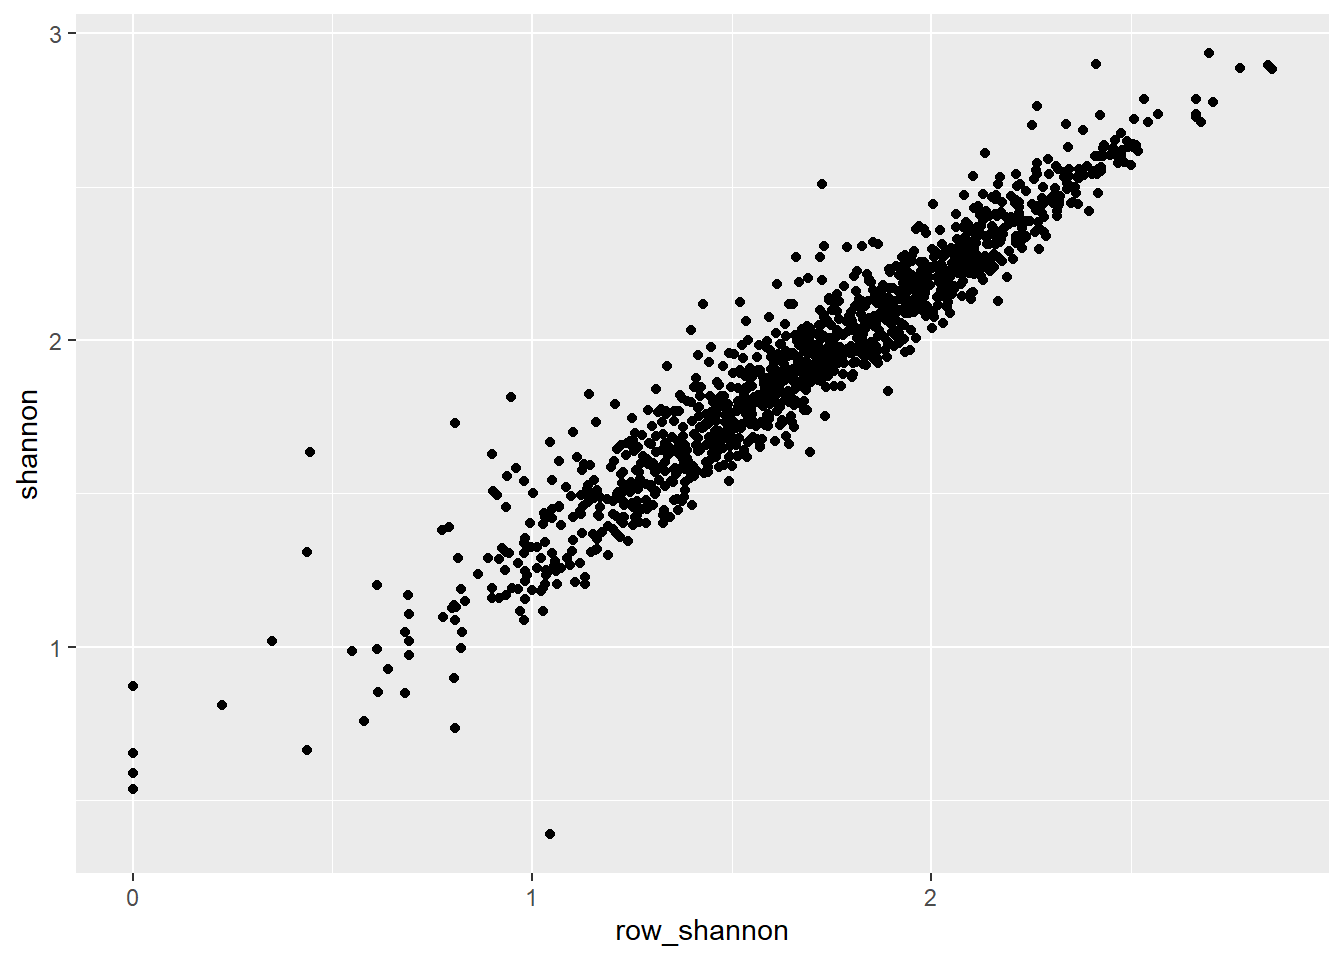
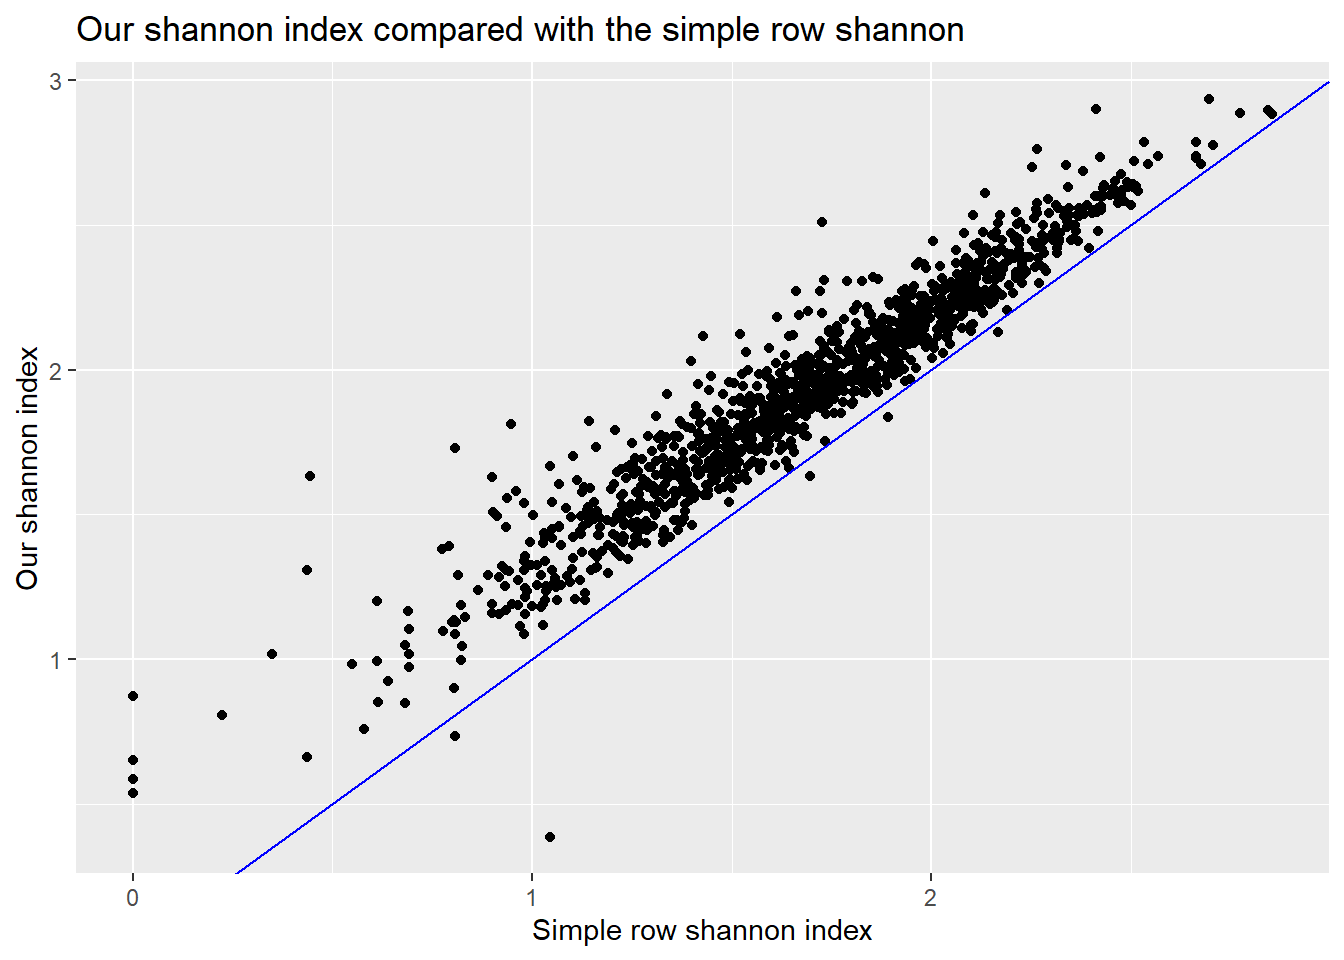
wflow_publish(all = TRUE)

diff --git a/docs/index.html b/docs/index.html
@@ -377,6 +377,9 @@ div.tocify {
 <li>
   <a href="license.html">License</a>
 </li>
+<li>
+  <a href="function_simple_shannon.html">Functions</a>
+</li>
       </ul>
       <ul class="nav navbar-nav navbar-right">
         <li>
@@ -402,7 +405,7 @@ div.tocify {
 
 <p>
 <button type="button" class="btn btn-default btn-workflowr btn-workflowr-report" data-toggle="collapse" data-target="#workflowr-report">
-<span class="glyphicon glyphicon-list" aria-hidden="true"></span> workflowr <span class="glyphicon glyphicon-ok text-success" aria-hidden="true"></span>
+<span class="glyphicon glyphicon-list" aria-hidden="true"></span> workflowr <span class="glyphicon glyphicon-exclamation-sign text-danger" aria-hidden="true"></span>
 </button>
 </p>
 <div id="workflowr-report" class="collapse">
@@ -411,7 +414,7 @@ div.tocify {
 <a data-toggle="tab" href="#summary">Summary</a>
 </li>
 <li>
-<a data-toggle="tab" href="#checks"> Checks <span class="glyphicon glyphicon-ok text-success" aria-hidden="true"></span> </a>
+<a data-toggle="tab" href="#checks"> Checks <span class="glyphicon glyphicon-exclamation-sign text-danger" aria-hidden="true"></span> </a>
 </li>
 <li>
 <a data-toggle="tab" href="#versions">Past versions</a>
@@ -420,10 +423,10 @@ div.tocify {
 <div class="tab-content">
 <div id="summary" class="tab-pane fade in active">
 <p>
-<strong>Last updated:</strong> 2021-04-05
+<strong>Last updated:</strong> 2021-04-06
 </p>
 <p>
-<strong>Checks:</strong> <span class="glyphicon glyphicon-ok text-success" aria-hidden="true"></span> 7 <span class="glyphicon glyphicon-exclamation-sign text-danger" aria-hidden="true"></span> 0
+<strong>Checks:</strong> <span class="glyphicon glyphicon-ok text-success" aria-hidden="true"></span> 6 <span class="glyphicon glyphicon-exclamation-sign text-danger" aria-hidden="true"></span> 1
 </p>
 <p>
 <strong>Knit directory:</strong> <code>DataProject-index/</code> <span class="glyphicon glyphicon-question-sign" aria-hidden="true" title="This is the local directory in which the code in this file was executed."> </span>
@@ -439,12 +442,12 @@ This reproducible <a href="http://rmarkdown.rstudio.com">R Markdown</a> analysis
 <div class="panel panel-default">
 <div class="panel-heading">
 <p class="panel-title">
-<a data-toggle="collapse" data-parent="#workflowr-checks" href="#strongRMarkdownfilestronguptodate"> <span class="glyphicon glyphicon-ok text-success" aria-hidden="true"></span> <strong>R Markdown file:</strong> up-to-date </a>
+<a data-toggle="collapse" data-parent="#workflowr-checks" href="#strongRMarkdownfilestronguncommittedchanges"> <span class="glyphicon glyphicon-exclamation-sign text-danger" aria-hidden="true"></span> <strong>R Markdown file:</strong> uncommitted changes </a>
 </p>
 </div>
-<div id="strongRMarkdownfilestronguptodate" class="panel-collapse collapse">
+<div id="strongRMarkdownfilestronguncommittedchanges" class="panel-collapse collapse">
 <div class="panel-body">
-<p>Great! Since the R Markdown file has been committed to the Git repository, you know the exact version of the code that produced these results.</p>
+<p>The R Markdown file has unstaged changes. To know which version of the R Markdown file created these results, you’ll want to first commit it to the Git repo. If you’re still working on the analysis, you can ignore this warning. When you’re finished, you can run <code>wflow_publish</code> to commit the R Markdown file and build the HTML.</p>
 </div>
 </div>
 </div>
@@ -511,16 +514,16 @@ This reproducible <a href="http://rmarkdown.rstudio.com">R Markdown</a> analysis
 <div class="panel panel-default">
 <div class="panel-heading">
 <p class="panel-title">
-<a data-toggle="collapse" data-parent="#workflowr-checks" href="#strongRepositoryversionstrongahrefhttpsgithubcomMHPHPDataProject1tree16289e5b73373f187c22020ecdf19fe0443b3a31targetblank16289e5a"> <span class="glyphicon glyphicon-ok text-success" aria-hidden="true"></span> <strong>Repository version:</strong> <a href="https://github.com/MHPHP/DataProject-1/tree/16289e5b73373f187c22020ecdf19fe0443b3a31" target="_blank">16289e5</a> </a>
+<a data-toggle="collapse" data-parent="#workflowr-checks" href="#strongRepositoryversionstrongahrefhttpsgithubcomMHPHPDataProject1tree64faa3fd831f69031147162fc5bdb56c9bc06f53targetblank64faa3fa"> <span class="glyphicon glyphicon-ok text-success" aria-hidden="true"></span> <strong>Repository version:</strong> <a href="https://github.com/MHPHP/DataProject-1/tree/64faa3fd831f69031147162fc5bdb56c9bc06f53" target="_blank">64faa3f</a> </a>
 </p>
 </div>
[2 lines of base64/hex data omitted]
 <div class="panel-body">
 <p>
 Great! You are using Git for version control. Tracking code development and connecting the code version to the results is critical for reproducibility.
 </p>
 <p>
-The results in this page were generated with repository version <a href="https://github.com/MHPHP/DataProject-1/tree/16289e5b73373f187c22020ecdf19fe0443b3a31" target="_blank">16289e5</a>. See the <em>Past versions</em> tab to see a history of the changes made to the R Markdown and HTML files.
+The results in this page were generated with repository version <a href="https://github.com/MHPHP/DataProject-1/tree/64faa3fd831f69031147162fc5bdb56c9bc06f53" target="_blank">64faa3f</a>. See the <em>Past versions</em> tab to see a history of the changes made to the R Markdown and HTML files.
 </p>
 <p>
 Note that you need to be careful to ensure that all relevant files for the analysis have been committed to Git prior to generating the results (you can use <code>wflow_publish</code> or <code>wflow_git_commit</code>). workflowr only checks the R Markdown file, but you know if there are other scripts or data files that it depends on. Below is the status of the Git repository when the results were generated:
@@ -531,8 +534,8 @@ Ignored files:
     Ignored:    .Rproj.user/
 
 Unstaged changes:
-    Modified:   analysis/function_simple_shannon.Rmd
-    Modified:   analysis/gradient_plot.Rmd
+    Modified:   analysis/index.Rmd
+    Modified:   code/function_shannon.R
 
 </code></pre>
 <p>
@@ -571,6 +574,23 @@ Message
 </tr>
 </thead>
 <tbody>
+<tr>
+<td>
+html
+</td>
+<td>
+<a href="https://rawcdn.githack.com/MHPHP/DataProject-1/032f6e01c12d3f51460a271bf4f73b4aa5818117/docs/index.html" target="_blank">032f6e0</a>
+</td>
+<td>
+MHPHP
+</td>
+<td>
+2021-04-06
+</td>
+<td>
+wflow_publish(all = TRUE)
+</td>
+</tr>
 <tr>
 <td>
 html
@@ -18882,7 +18902,7 @@ shannon
 <h1>
 Plot
 </h1>
-<p>Look at connection between pH value of the soil and the shannon index for the plot. The function <a href="gradient_plot.html">plot_index_gradient</a> is used to visualize how different ways of calculating the shannon index compares against each other. We will be comparing different shannon indexes as well as the hills number by plotting them against a gradient for each plot. In this example the gradient will be the pH value of the soil. We used the functions row_shannon and species_richness. Their documnetation is <a href="function_simple_shannon.html">Here</a>.</p>
+<p>Look at connection between pH value of the soil and the shannon index for the plot. The function <a href="gradient_plot.html">plot_index_gradient</a> is used to visualize how different ways of calculating the shannon index compares against each other. We will be comparing different shannon indexes as well as the hills number by plotting them against a gradient for each plot. In this example the gradient will be the pH value of the soil. We used the functions row_shannon and species_richness. Their documentation is <a href="function_simple_shannon.html">Here</a>.</p>
 <pre class="r"><code>result$pH &lt;- abiotiske$pHjord
 result$row_shannon &lt;- row_shannon(cover_data = cover, species_indicator = &quot;X&quot;)
 result$species_richness &lt;- species_richness(freq, species_indicator = &quot;X&quot;)
@@ -18899,6 +18919,7 @@ result$hills_number &lt;- exp(result$row_shannon)</code></pre>
 <p><img src="figure/index.Rmd/unnamed-chunk-12-1.png" width="672" style="display: block; margin: auto;" /></p>
 <p>An other way of comparing two indexes is to plot them against each other.</p>
 <p><img src="figure/index.Rmd/unnamed-chunk-13-1.png" width="672" style="display: block; margin: auto;" /></p>
+<p>It can be seen in this example, that our way of calculating the shannon index gives a slightly higher value for most plots, but two plots with similar shannon index value with the simple way will still have compareple values with our way. Noticeably are the biggest difference among plots with a shannon value of 0 using the simpler method, that now have a value closer to 1 with our way of calculatin the shannon index.</p>
 <br>
 <p>
 <button type="button" class="btn btn-default btn-workflowr btn-workflowr-sessioninfo" data-toggle="collapse" data-target="#workflowr-sessioninfo" style="display: block;">

diff --git a/docs/Animation.html b/docs/Animation.html
@@ -11,7 +11,7 @@
 
 
 
-<title>Animation for model validation</title>
+<title>Animation.utf8.md</title>
 
 <script src="site_libs/jquery-1.11.3/jquery.min.js"></script>
 <meta name="viewport" content="width=device-width, initial-scale=1" />
@@ -396,14 +396,13 @@ div.tocify {
 
 
 
-<h1 class="title toc-ignore">Animation for model validation</h1>
 
 </div>
 
 
 <p>
 <button type="button" class="btn btn-default btn-workflowr btn-workflowr-report" data-toggle="collapse" data-target="#workflowr-report">
-<span class="glyphicon glyphicon-list" aria-hidden="true"></span> workflowr <span class="glyphicon glyphicon-ok text-success" aria-hidden="true"></span>
+<span class="glyphicon glyphicon-list" aria-hidden="true"></span> workflowr <span class="glyphicon glyphicon-exclamation-sign text-danger" aria-hidden="true"></span>
 </button>
 </p>
 <div id="workflowr-report" class="collapse">
@@ -412,7 +411,7 @@ div.tocify {
 <a data-toggle="tab" href="#summary">Summary</a>
 </li>
 <li>
-<a data-toggle="tab" href="#checks"> Checks <span class="glyphicon glyphicon-ok text-success" aria-hidden="true"></span> </a>
+<a data-toggle="tab" href="#checks"> Checks <span class="glyphicon glyphicon-exclamation-sign text-danger" aria-hidden="true"></span> </a>
 </li>
 <li>
 <a data-toggle="tab" href="#versions">Past versions</a>
@@ -424,7 +423,7 @@ div.tocify {
 <strong>Last updated:</strong> 2021-04-07
 </p>
 <p>
-<strong>Checks:</strong> <span class="glyphicon glyphicon-ok text-success" aria-hidden="true"></span> 7 <span class="glyphicon glyphicon-exclamation-sign text-danger" aria-hidden="true"></span> 0
+<strong>Checks:</strong> <span class="glyphicon glyphicon-ok text-success" aria-hidden="true"></span> 6 <span class="glyphicon glyphicon-exclamation-sign text-danger" aria-hidden="true"></span> 1
 </p>
 <p>
 <strong>Knit directory:</strong> <code>DataProject-index/</code> <span class="glyphicon glyphicon-question-sign" aria-hidden="true" title="This is the local directory in which the code in this file was executed."> </span>
@@ -440,12 +439,12 @@ This reproducible <a href="http://rmarkdown.rstudio.com">R Markdown</a> analysis
 <div class="panel panel-default">
 <div class="panel-heading">
 <p class="panel-title">
-<a data-toggle="collapse" data-parent="#workflowr-checks" href="#strongRMarkdownfilestronguptodate"> <span class="glyphicon glyphicon-ok text-success" aria-hidden="true"></span> <strong>R Markdown file:</strong> up-to-date </a>
+<a data-toggle="collapse" data-parent="#workflowr-checks" href="#strongRMarkdownfilestronguncommittedchanges"> <span class="glyphicon glyphicon-exclamation-sign text-danger" aria-hidden="true"></span> <strong>R Markdown file:</strong> uncommitted changes </a>
 </p>
 </div>
-<div id="strongRMarkdownfilestronguptodate" class="panel-collapse collapse">
+<div id="strongRMarkdownfilestronguncommittedchanges" class="panel-collapse collapse">
 <div class="panel-body">
-<p>Great! Since the R Markdown file has been committed to the Git repository, you know the exact version of the code that produced these results.</p>
+<p>The R Markdown file has unstaged changes. To know which version of the R Markdown file created these results, you’ll want to first commit it to the Git repo. If you’re still working on the analysis, you can ignore this warning. When you’re finished, you can run <code>wflow_publish</code> to commit the R Markdown file and build the HTML.</p>
 </div>
 </div>
 </div>
@@ -512,16 +511,16 @@ This reproducible <a href="http://rmarkdown.rstudio.com">R Markdown</a> analysis
 <div class="panel panel-default">
 <div class="panel-heading">
 <p class="panel-title">
-<a data-toggle="collapse" data-parent="#workflowr-checks" href="#strongRepositoryversionstrongahrefhttpsgithubcomMHPHPDataProject1tree5212f3765daa708e97b8c8f00cfdc10df58f4737targetblank5212f37a"> <span class="glyphicon glyphicon-ok text-success" aria-hidden="true"></span> <strong>Repository version:</strong> <a href="https://github.com/MHPHP/DataProject-1/tree/5212f3765daa708e97b8c8f00cfdc10df58f4737" target="_blank">5212f37</a> </a>
+<a data-toggle="collapse" data-parent="#workflowr-checks" href="#strongRepositoryversionstrongahrefhttpsgithubcomMHPHPDataProject1tree97b050e00e05ffa0717060a561e24a1da093c11ctargetblank97b050ea"> <span class="glyphicon glyphicon-ok text-success" aria-hidden="true"></span> <strong>Repository version:</strong> <a href="https://github.com/MHPHP/DataProject-1/tree/97b050e00e05ffa0717060a561e24a1da093c11c" target="_blank">97b050e</a> </a>
 </p>
 </div>
[2 lines of base64/hex data omitted]
 <div class="panel-body">
 <p>
 Great! You are using Git for version control. Tracking code development and connecting the code version to the results is critical for reproducibility.
 </p>
 <p>
-The results in this page were generated with repository version <a href="https://github.com/MHPHP/DataProject-1/tree/5212f3765daa708e97b8c8f00cfdc10df58f4737" target="_blank">5212f37</a>. See the <em>Past versions</em> tab to see a history of the changes made to the R Markdown and HTML files.
+The results in this page were generated with repository version <a href="https://github.com/MHPHP/DataProject-1/tree/97b050e00e05ffa0717060a561e24a1da093c11c" target="_blank">97b050e</a>. See the <em>Past versions</em> tab to see a history of the changes made to the R Markdown and HTML files.
 </p>
 <p>
 Note that you need to be careful to ensure that all relevant files for the analysis have been committed to Git prior to generating the results (you can use <code>wflow_publish</code> or <code>wflow_git_commit</code>). workflowr only checks the R Markdown file, but you know if there are other scripts or data files that it depends on. Below is the status of the Git repository when the results were generated:
@@ -536,6 +535,7 @@ Untracked files:
     Untracked:  figure/
 
 Unstaged changes:
+    Modified:   analysis/Animation.Rmd
     Modified:   analysis/index.Rmd
     Modified:   code/function_shannon.R
 
@@ -576,6 +576,23 @@ Message
 </tr>
 </thead>
 <tbody>
+<tr>
+<td>
+html
+</td>
+<td>
+<a href="https://rawcdn.githack.com/MHPHP/DataProject-1/97b050e00e05ffa0717060a561e24a1da093c11c/docs/Animation.html" target="_blank">97b050e</a>
+</td>
+<td>
+MHPHP
+</td>
+<td>
+2021-04-07
+</td>
+<td>
+Build site.
+</td>
+</tr>
 <tr>
 <td>
 html
@@ -633,8 +650,8 @@ animate(animation,  nframes = 2*length(unique(test_long$scale)), duration = 20)<
   transition_states(factor(scale), transition_length = 2, state_length = 0) +
   labs(title = &quot;scale: {next_state}&quot;)
 
-plot(animation2)</code></pre>
-<p><img src="figure/Animation.Rmd/unnamed-chunk-8-1.png" width="672" style="display: block; margin: auto;" /></p>
+animation2</code></pre>
+<p><img src="figure/Animation.Rmd/unnamed-chunk-8-1.gif" style="display: block; margin: auto;" /></p>
 <br>
 <p>
 <button type="button" class="btn btn-default btn-workflowr btn-workflowr-sessioninfo" data-toggle="collapse" data-target="#workflowr-sessioninfo" style="display: block;">
@@ -663,17 +680,16 @@ other attached packages:
  [1] gganimate_1.0.7 png_0.1-7       gifski_0.8.6    forcats_0.5.0  
  [5] stringr_1.4.0   dplyr_1.0.2     purrr_0.3.4     readr_1.4.0    
  [9] tidyr_1.1.2     tibble_3.0.4    ggplot2_3.3.2   tidyverse_1.3.0
-[13] workflowr_1.6.2
 
 loaded via a namespace (and not attached):
- [1] Rcpp_1.0.5        lubridate_1.7.9   prettyunits_1.1.1 ps_1.4.0         
- [5] assertthat_0.2.1  rprojroot_1.3-2   digest_0.6.25     plyr_1.8.6       
- [9] R6_2.4.1          cellranger_1.1.0  backports_1.1.10  reprex_0.3.0     
-[13] evaluate_0.14     httr_1.4.2        pillar_1.4.6      rlang_0.4.8      
-[17] progress_1.2.2    readxl_1.3.1      rstudioapi_0.11   whisker_0.4      
-[21] blob_1.2.1        rmarkdown_2.4     labeling_0.4.2    munsell_0.5.0    
-[25] broom_0.7.2       compiler_4.0.3    httpuv_1.5.5      modelr_0.1.8     
-[29] xfun_0.18         pkgconfig_2.0.3   htmltools_0.5.0   tidyselect_1.1.0 
+ [1] Rcpp_1.0.5        lubridate_1.7.9   prettyunits_1.1.1 assertthat_0.2.1 
+ [5] rprojroot_1.3-2   digest_0.6.25     plyr_1.8.6        R6_2.4.1         
+ [9] cellranger_1.1.0  backports_1.1.10  reprex_0.3.0      evaluate_0.14    
+[13] httr_1.4.2        pillar_1.4.6      rlang_0.4.8       progress_1.2.2   
+[17] readxl_1.3.1      rstudioapi_0.11   whisker_0.4       blob_1.2.1       
+[21] rmarkdown_2.4     labeling_0.4.2    munsell_0.5.0     broom_0.7.2      
+[25] compiler_4.0.3    httpuv_1.5.5      modelr_0.1.8      xfun_0.18        
+[29] pkgconfig_2.0.3   htmltools_0.5.0   tidyselect_1.1.0  workflowr_1.6.2  
 [33] fansi_0.4.1       crayon_1.3.4      dbplyr_1.4.4      withr_2.3.0      
 [37] later_1.1.0.1     grid_4.0.3        jsonlite_1.7.1    gtable_0.3.0     
 [41] lifecycle_0.2.0   DBI_1.1.0         git2r_0.28.0      magrittr_1.5     
